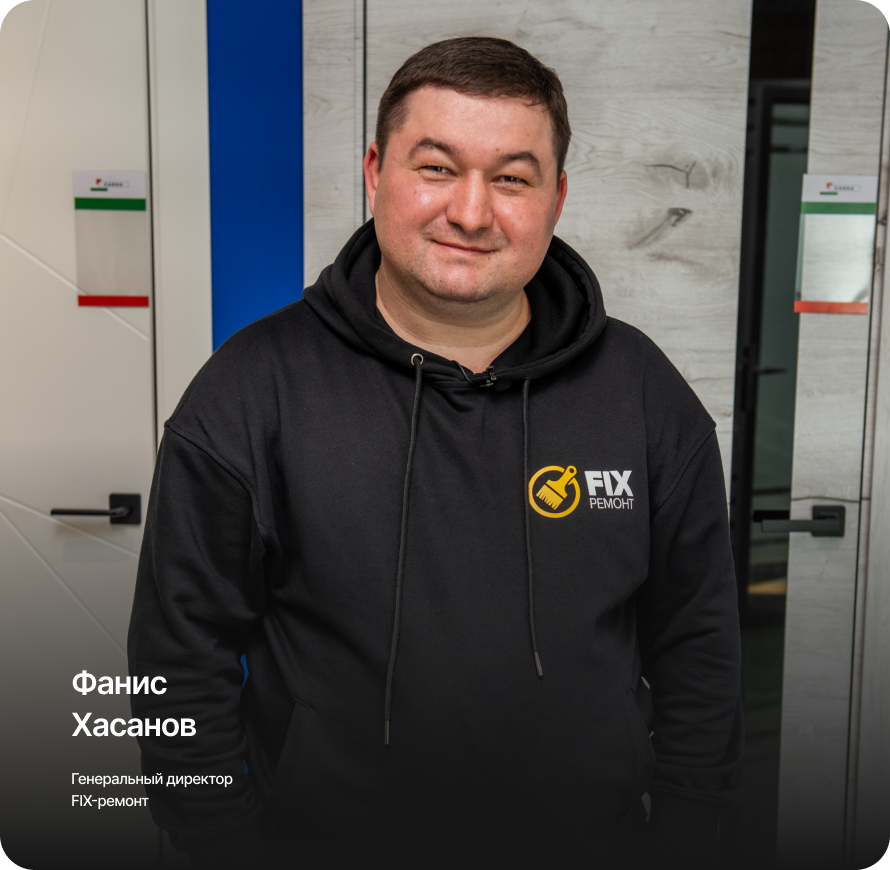
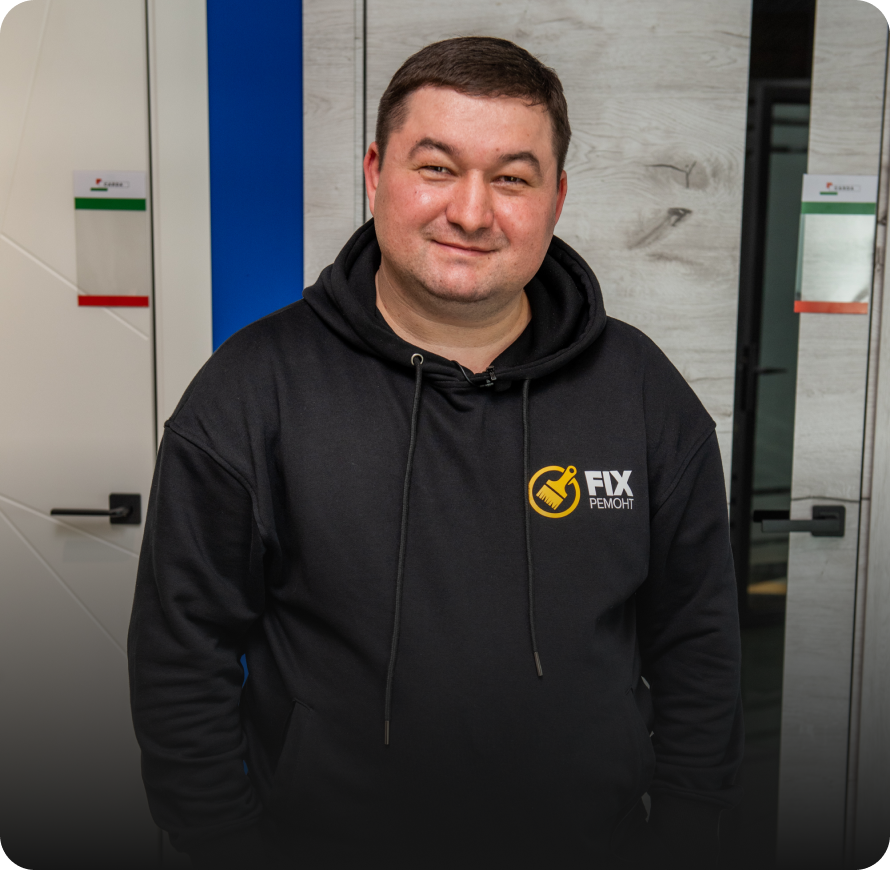
fix: update Responsibility photo, add captures

Changed region(s): [[0.0607, 0.7759, 0.273, 0.931]]

diff --git a/src/components/widgets/Responsibility/Responsibility.tsx b/src/components/widgets/Responsibility/Responsibility.tsx
@@ -1,42 +1,84 @@
 import React from 'react'
 import Image from 'next/image'
 
-import responsibilityBullits from '../../../../public/assets/img/responsibilityBullits.png'
 import ceoPhoto from '../../../../public/assets/img/ceoPhoto.png'
 
+import one from '../../../../public/assets/svg/digit icons/01.svg'
+import two from '../../../../public/assets/svg/digit icons/02.svg'
+import three from '../../../../public/assets/svg/digit icons/03.svg'
+import four from '../../../../public/assets/svg/digit icons/04.svg'
+
 const Responsibility = () => {
-  return (
-    <section className="flex h-[96vh] w-full flex-row items-center py-12">
-      <div className="flex h-full w-1/2 flex-col items-start gap-4">
-        <h1 className="heading m-0">
-          Лично{' '}
-          <span className="orange-bold">
-            несу
-            <br />
-            ответственность
-          </span>
-          <br />
-          за качество
-          <br /> предоставляемых услуг
-        </h1>
-        <p className="font-semibold">
-          За 10 лет мы выполнили более 1 000 объектов и не получили <br />
-          ни одной жалобы на качество работы и обслуживания
+  const elems = [
+    {
+      label: (
+        <p>
+          25 бригад и более, чем <br /> 30 сотрудников в штате
         </p>
-        <Image
-          alt="responsibility bullits"
-          className="w-full translate-x-[-1rem]"
-          src={responsibilityBullits as unknown as string}
-          quality={100}
-        />
+      ),
+      image: one
+    },
+    {
+      label: (
+        <p>
+          Сдаём каждый год более <br /> 150 объектов
+        </p>
+      ),
+      image: two
+    },
+    {
+      label: <p>Работаем без посредников</p>,
+      image: three
+    },
+    {
+      label: <p>Был основным подрядчиком компании ТАИФ</p>,
+      image: four
+    }
+  ]
+
+  return (
+    <section className="flex w-full flex-row items-center">
+      <div className="slef flex w-1/2 flex-col items-start justify-between self-stretch">
+        <div className="space-y-5">
+          <h1 className="heading m-0">
+            Лично{' '}
+            <span className="orange-bold">
+              несу
+              <br />
+              ответственность
+            </span>
+            <br />
+            за качество
+            <br /> предоставляемых услуг
+          </h1>
+          <p className="font-semibold">
+            За 10 лет мы выполнили более 1 000 объектов и не получили <br />
+            ни одной жалобы на качество работы и обслуживания
+          </p>
+        </div>
+        <div className="grid h-max w-full flex-grow grid-cols-2 grid-rows-2 gap-3">
+          {elems.map((bullet, index) => (
+            <div
+              key={index}
+              className={`flex min-h-28 min-w-[17rem] flex-col gap-16 rounded-3xl bg-white p-10`}
+            >
+              <Image alt="bullet number" src={bullet.image as string} className={`self-end`} />
+              <span className={`max-w-56 text-sm font-medium leading-5`}>{bullet.label}</span>
+            </div>
+          ))}
+        </div>
       </div>
-      <div id="responsibility_right" className="flex w-1/2 flex-col items-center">
+      <div id="responsibility_right" className="relative flex w-1/2 flex-col items-center">
         <Image
           alt="CEO_picture"
           className="w-[97%]"
           src={ceoPhoto as unknown as string}
           quality={100}
         />
+        <div className="absolute bottom-12 left-16 w-36 space-y-4 text-white">
+          <h6 className="w-32 text-2xl font-semibold">Фанис Хасанов</h6>
+          <p className="text-xs font-light">Генеральный директор FIX-ремонт</p>
+        </div>
       </div>
     </section>
   )
